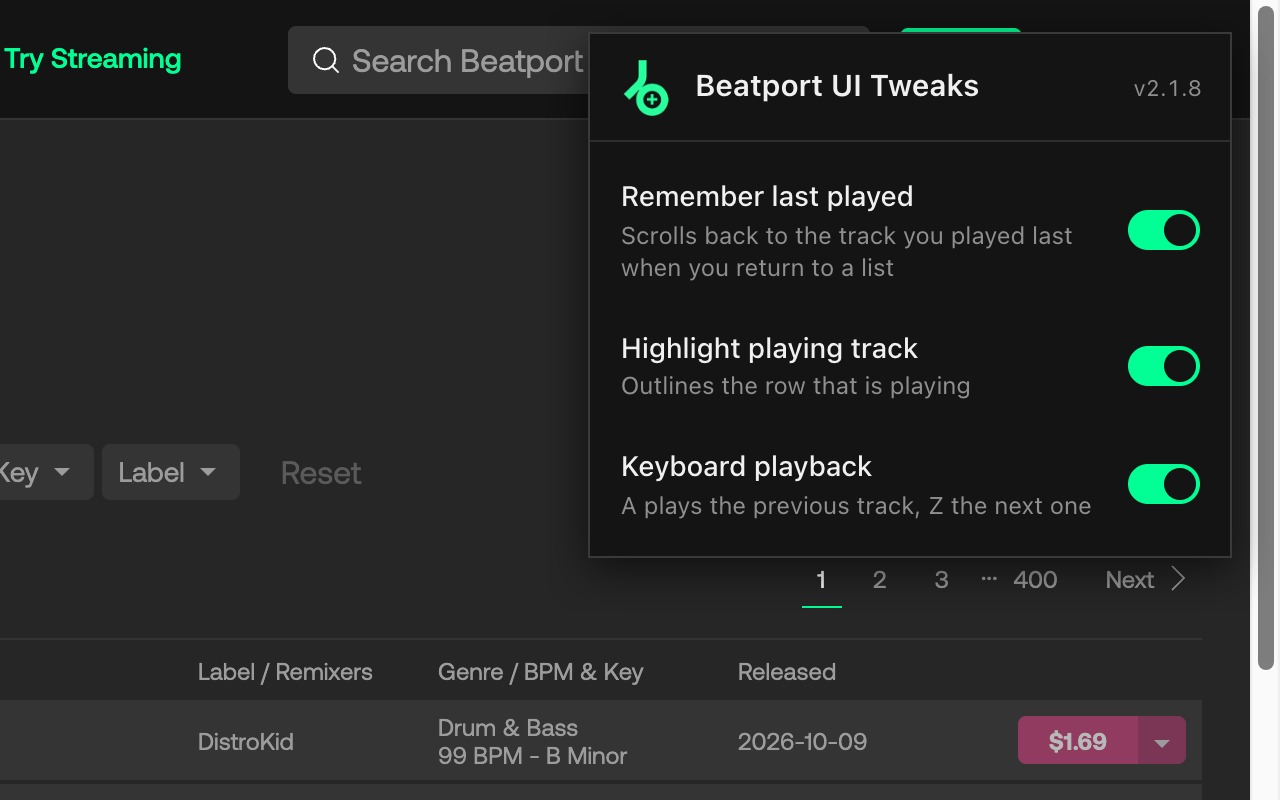
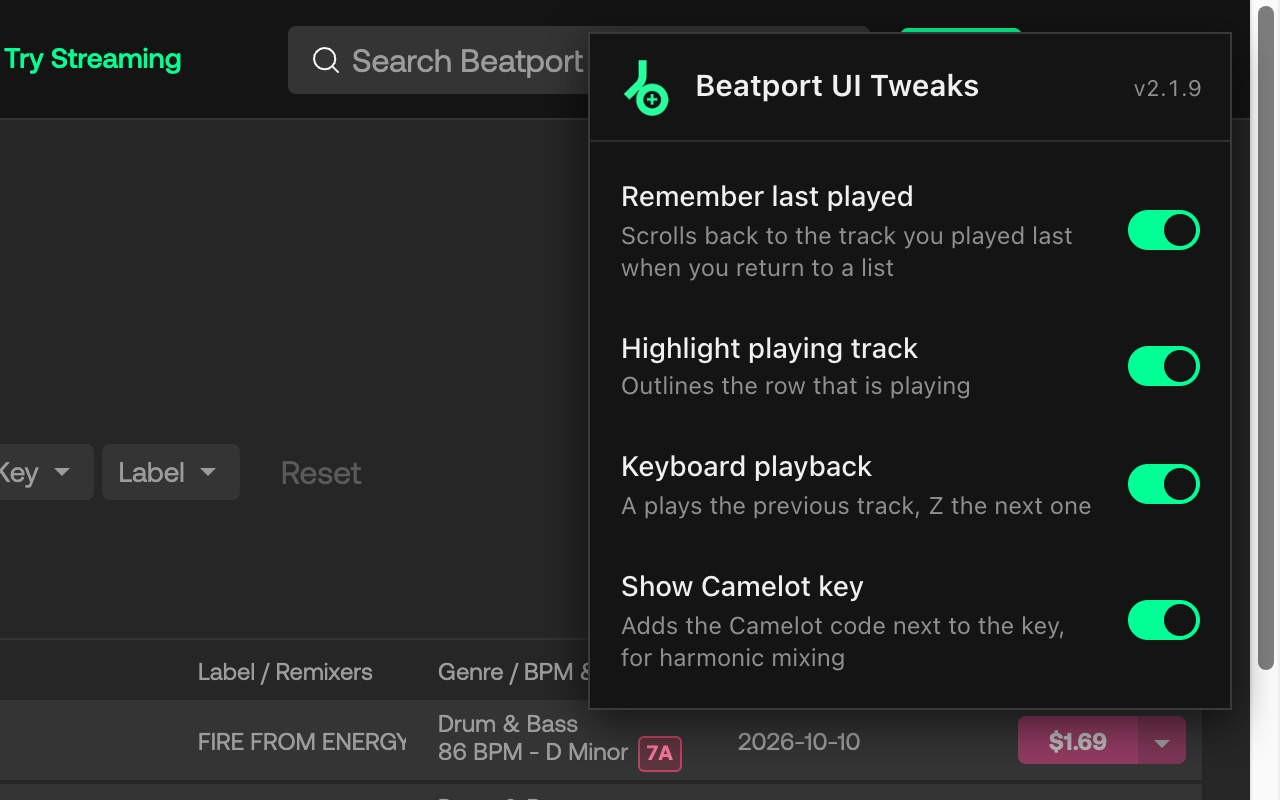
chore: bump version

diff --git a/e2e/extension.spec.ts b/e2e/extension.spec.ts
@@ -7,9 +7,12 @@ const siteUrl = 'https://www.beatport.com/genre/techno/6/top-100'
 // and button[data-testid="play-button"]. Like the real site (a SPA) rows are rendered after
 // load, which is also what wakes the extension's MutationObserver. Clicking play marks the
 // row as .current, as Beatport's player does.
-const trackRow = (id: string, current: boolean) => `
+const keys = ['D Minor', 'Bb Minor', 'Eb Major']
+
+const trackRow = (id: string, current: boolean, key: string) => `
   <div class="row${current ? ' current' : ''}">
     <div class="cell title"><a href="/release/track-${id}/${id}">Track ${id}</a></div>
+    <div class="cell bpm"><div>Drum &amp; Bass</div><div>86 BPM - ${key}</div></div>
     <button data-testid="play-button"
       onclick="document.querySelector('.row.current')?.classList.remove('current');this.closest('.row').classList.add('current');this.dataset.played=1">
       play
@@ -18,7 +21,14 @@ const trackRow = (id: string, current: boolean) => `
 
 const visitTrackList = async (page: Page) => {
   await page.route('https://www.beatport.com/**', route =>
-    route.fulfill({ contentType: 'text/html', body: '<!doctype html><main id="list"></main>' })
+    route.fulfill({
+      contentType: 'text/html',
+      body: `<!doctype html>
+        <div class="TrackMeta_metaItem__x1"><span>BPM:</span><span>86</span></div>
+        <div class="TrackMeta_metaItem__x1"><span>Key:</span><span>Gb Minor</span></div>
+        <main id="list"></main>
+        <div id="bp-player"><p>87 bpm</p><p>A minor</p></div>`
+    })
   )
   await page.goto(siteUrl)
   await expect(page.locator('body')).toHaveClass(/bp-ui-tweak-next-prev-play-keyboard/)
@@ -27,14 +37,14 @@ const visitTrackList = async (page: Page) => {
 const renderRows = (page: Page, ids: string[]) =>
   page.locator('#list').evaluate((list, html) => {
     list.innerHTML = html
-  }, ids.map((id, i) => trackRow(id, i === 0)).join(''))
+  }, ids.map((id, i) => trackRow(id, i === 0, keys[i % keys.length])).join(''))
 
 const rows = (page: Page) => page.locator('.row')
 
 test('popup lists the default features and persists a toggle', async ({ page, popupUrl }) => {
   await page.goto(popupUrl)
   const boxes = page.locator('.options input[type="checkbox"]')
-  await expect(boxes).toHaveCount(3)
+  await expect(boxes).toHaveCount(featureIds.length)
   for (const box of await boxes.all()) {
     await expect(box).toBeChecked()
   }
@@ -86,4 +96,42 @@ test('z and a keys play the next and previous track', async ({ page }) => {
   await expect(rows(page).nth(2)).toHaveClass(/current/)
   await page.keyboard.press('a')
   await expect(rows(page).nth(1)).toHaveClass(/current/)
+})
+
+test('shows wheel-colored Camelot codes next to every key, toggle hides them', async ({ page, worker }) => {
+  await visitTrackList(page)
+  await renderRows(page, ['111', '222', '333'])
+  const keyCell = (row: number) => rows(page).nth(row).locator('.cell.bpm > div').nth(1)
+  const chip = (locator: ReturnType<typeof keyCell>) =>
+    locator.evaluate(el => [getComputedStyle(el, '::after').content, getComputedStyle(el).getPropertyValue('--bp-camelot-hue').trim()])
+
+  await expect(keyCell(0)).toHaveAttribute('data-bp-camelot', '7A')
+  await expect(keyCell(1)).toHaveAttribute('data-bp-camelot', '3A')
+  await expect(keyCell(2)).toHaveAttribute('data-bp-camelot', '5B')
+  await expect(rows(page).nth(0).locator('.cell.bpm > div').nth(0), 'genre cell gets no code').not.toHaveAttribute('data-bp-camelot', /./)
+  await expect(page.locator('[class*="metaItem"] > span').nth(3), 'track detail key').toHaveAttribute('data-bp-camelot', '11A')
+  await expect(page.locator('#bp-player p').nth(1), 'player key').toHaveAttribute('data-bp-camelot', '8A')
+  await expect(page.locator('#bp-player p').nth(0), 'player bpm').not.toHaveAttribute('data-bp-camelot', /./)
+  expect(await chip(keyCell(0))).toEqual(['"7A"', '-15'])
+  expect(await chip(keyCell(2))).toEqual(['"5B"', '45'])
+
+  // next track in the player: text changes, code follows
+  await page.locator('#bp-player p').nth(1).evaluate(p => { p.textContent = 'Eb Major' })
+  await expect(page.locator('#bp-player p').nth(1)).toHaveAttribute('data-bp-camelot', '5B')
+
+  // the popup sends this exact message when the toggle flips
+  const toggle = (enabled: boolean) =>
+    worker.evaluate(async enabled => {
+      // no "tabs" permission, so tab urls are hidden: broadcast, tabs without the content script reject
+      const tabs = await chrome.tabs.query({})
+      await Promise.allSettled(tabs.map(tab => chrome.tabs.sendMessage(tab.id!, { feature: { id: 'bp-ui-tweak-camelot-key', enabled } })))
+    }, enabled)
+  await toggle(false)
+  await expect(page.locator('body')).not.toHaveClass(/bp-ui-tweak-camelot-key/)
+  expect(await chip(keyCell(0))).toEqual(['none', ''])
+  await renderRows(page, ['444'])
+  await expect(keyCell(0), 'no annotation while off').not.toHaveAttribute('data-bp-camelot', /./)
+  await toggle(true)
+  await expect(keyCell(0)).toHaveAttribute('data-bp-camelot', '7A')
+  expect(await chip(keyCell(0))).toEqual(['"7A"', '-15'])
 })

diff --git a/src/assets/scripts/content.ts b/src/assets/scripts/content.ts
@@ -7,6 +7,7 @@ import {
 import { Feature } from '../../store'
 import { getGenreOrArtistAndTypeFromUrl } from './utils/url'
 import { getLastPlayedReleases, lastPlayedStorageKey } from './utils/chrome'
+import { camelotFromKeyText } from './utils/musical'
 
 const body = document.querySelector<HTMLElement>('body')!
 const rowClass = 'row'
@@ -105,11 +106,66 @@ document.addEventListener('keyup', e => {
   }
 })
 
+// Camelot key: every element that shows a musical key gets data-bp-camelot="10A", the chip itself
+// is rendered by content.scss from that attribute, so React never sees an extra DOM node.
+const camelotFeatureClass = 'bp-ui-tweak-camelot-key'
+const camelotAttribute = 'data-bp-camelot'
+let camelotObserver: MutationObserver | null = null
+let camelotFrame = 0
+
+const camelotKeyElements = (): Element[] => [
+  // list tables on genre, chart, release and track pages: "86 BPM - D Minor"
+  ...document.querySelectorAll(`.cell.bpm > div:not([${camelotAttribute}])`),
+  // track detail meta: <span>Key:</span><span>D Minor</span>
+  ...[...document.querySelectorAll('[class*="metaItem"] > span')]
+    .filter(span => span.textContent?.trim() === 'Key:')
+    .map(span => span.nextElementSibling),
+  // player bar: "A minor", changes with the track so it is re-read every pass
+  ...document.querySelectorAll('#bp-player p')
+].filter((element): element is Element => !!element)
+
+const annotateCamelotKeys = () => {
+  camelotKeyElements().forEach(element => {
+    const code = camelotFromKeyText(element.textContent ?? '')
+    if (code) {
+      if (element.getAttribute(camelotAttribute) !== code) {
+        element.setAttribute(camelotAttribute, code)
+      }
+    } else if (element.hasAttribute(camelotAttribute)) {
+      element.removeAttribute(camelotAttribute)
+    }
+  })
+}
+
+const scheduleCamelotPass = () => {
+  if (!camelotFrame) {
+    camelotFrame = requestAnimationFrame(() => {
+      camelotFrame = 0
+      annotateCamelotKeys()
+    })
+  }
+}
+
+const syncCamelotObserver = () => {
+  const enabled = body.classList.contains(camelotFeatureClass)
+  if (enabled && !camelotObserver) {
+    camelotObserver = new MutationObserver(scheduleCamelotPass)
+    // attribute changes are not observed, so our own writes never re-trigger the pass
+    camelotObserver.observe(body, { childList: true, subtree: true, characterData: true })
+    scheduleCamelotPass()
+  }
+  if (!enabled && camelotObserver) {
+    camelotObserver.disconnect()
+    camelotObserver = null
+  }
+}
+
 chrome.runtime.onMessage.addListener(request => {
   const {
     feature: { id, enabled }
   } = request
   toggleBodyFeatureClassNames(id, enabled)
+  syncCamelotObserver()
 })
 
 chrome.runtime.sendMessage({ action: 'get-beatport-ui-features' }, response => {
@@ -118,4 +174,5 @@ chrome.runtime.sendMessage({ action: 'get-beatport-ui-features' }, response => {
     const { id, enabled } = feature
     toggleBodyFeatureClassNames(id, enabled)
   })
+  syncCamelotObserver()
 })

diff --git a/src/assets/styles/content.scss b/src/assets/styles/content.scss
@@ -7,3 +7,31 @@
     }
   }
 }
+
+// Camelot chip, rendered from data-bp-camelot set by content.ts. Hue follows the Camelot wheel:
+// 1 teal, 2 green, 3 lime, 4 yellow, 5 orange, 6 orange-red, 7 red, 8 pink, 9 magenta, 10 violet,
+// 11 blue, 12 cyan. A (minor) and B (major) share the hue like on the real wheel.
+.bp-ui-tweaks-extension.bp-ui-tweak-camelot-key {
+  [data-bp-camelot]::after {
+    content: attr(data-bp-camelot);
+    display: inline-block;
+    margin-left: 0.45em;
+    padding: 0 0.35em;
+    border: 1px solid hsl(var(--bp-camelot-hue) 80% 60% / 0.7);
+    border-radius: 3px;
+    background: hsl(var(--bp-camelot-hue) 80% 55% / 0.22);
+    color: hsl(var(--bp-camelot-hue) 90% 72%);
+    font-size: 0.85em;
+    font-weight: 600;
+    line-height: 1.5;
+    letter-spacing: 0.02em;
+    vertical-align: baseline;
+  }
+
+  @for $n from 1 through 12 {
+    [data-bp-camelot='#{$n}A'],
+    [data-bp-camelot='#{$n}B'] {
+      --bp-camelot-hue: #{165 - 30 * ($n - 1)};
+    }
+  }
+}

diff --git a/src/assets/scripts/utils/musical.ts b/src/assets/scripts/utils/musical.ts
@@ -9,3 +9,25 @@ export const convertKeySignatureToCamelot = (key: KeySignatures, mode: Modes): s
 
   return /major/i.test(mode) ? camelotMajor[idx] : camelotMinor[idx]
 }
+
+// Beatport writes flats ("Bb Minor"), the table above is in sharps
+const flatsToSharps: Record<string, KeySignatures> = {
+  Cb: 'B',
+  Db: 'C#',
+  Eb: 'D#',
+  Fb: 'E',
+  Gb: 'F#',
+  Ab: 'G#',
+  Bb: 'A#'
+}
+
+// "86 BPM - Bb Minor", "Key: D Minor", "A minor" -> "3A", "7A", "8A"; null when the text has no key
+export const camelotFromKeyText = (text: string): string | null => {
+  const match = /([A-G])([b#♭♯])?\s*(major|minor|Major|Minor)/.exec(text)
+  if (!match) {
+    return null
+  }
+  const [, letter, accidental = '', mode] = match
+  const key = `${letter}${accidental.replace('♭', 'b').replace('♯', '#')}`
+  return convertKeySignatureToCamelot(flatsToSharps[key] ?? (key as KeySignatures), mode.toLowerCase() as Modes) ?? null
+}

diff --git a/e2e/live.spec.ts b/e2e/live.spec.ts
@@ -41,6 +41,11 @@ test('the extension still works on the live Beatport top 100', async ({ page, wo
     .poll(() => worker.evaluate(() => chrome.storage.sync.get('beatport-last-played')), { message: 'last played stored' })
     .toEqual({ 'beatport-last-played': { 'techno-peak-time-driving': { 'top-100': trackId } } })
 
+  await expect
+    .poll(() => page.locator('.cell.bpm > div[data-bp-camelot]').count(), { message: 'Camelot codes on the key column' })
+    .toBeGreaterThan(10)
+  expect(await page.locator('.cell.bpm > div[data-bp-camelot]').first().getAttribute('data-bp-camelot')).toMatch(/^(1[0-2]|[1-9])[AB]$/)
+
   await page.keyboard.press('z')
   await expect(trackRows.nth(2), 'z plays the next track').toHaveClass(/current/, { timeout: 15_000 })
 })

diff --git a/src/store.tsx b/src/store.tsx
@@ -26,6 +26,12 @@ export const defaultFeatures: Feature[] = [
     label: 'Keyboard playback',
     description: 'A plays the previous track, Z the next one',
     enabled: true
+  },
+  {
+    id: 'bp-ui-tweak-camelot-key',
+    label: 'Show Camelot key',
+    description: 'Adds the Camelot code next to the key, for harmonic mixing',
+    enabled: true
   }
 ]
 

diff --git a/e2e/fixtures.ts b/e2e/fixtures.ts
@@ -6,7 +6,8 @@ export const dist = fileURLToPath(new URL('../dist', import.meta.url))
 export const featureIds = [
   'bp-ui-tweak-remember-last-played',
   'bp-ui-tweak-highlight-played-item',
-  'bp-ui-tweak-next-prev-play-keyboard'
+  'bp-ui-tweak-next-prev-play-keyboard',
+  'bp-ui-tweak-camelot-key'
 ]
 
 export type Options = { headlessMode: boolean }

diff --git a/README.md b/README.md
@@ -5,6 +5,7 @@ A web extension that adds some useful feature to [beatport.com](https://www.beat
 - Toggle list row highlighting (on hover and last played item)
 - Toggle saving last played item in local storage and highlighting it on page load and scrolling to it
 - Play next or previous items with keyboard shortcuts (a -> previous, z -> next)
+- Show the Camelot key next to Beatport's key, in Camelot wheel colors, for harmonic mixing
 
 ## Screenshots
 ### Extension
